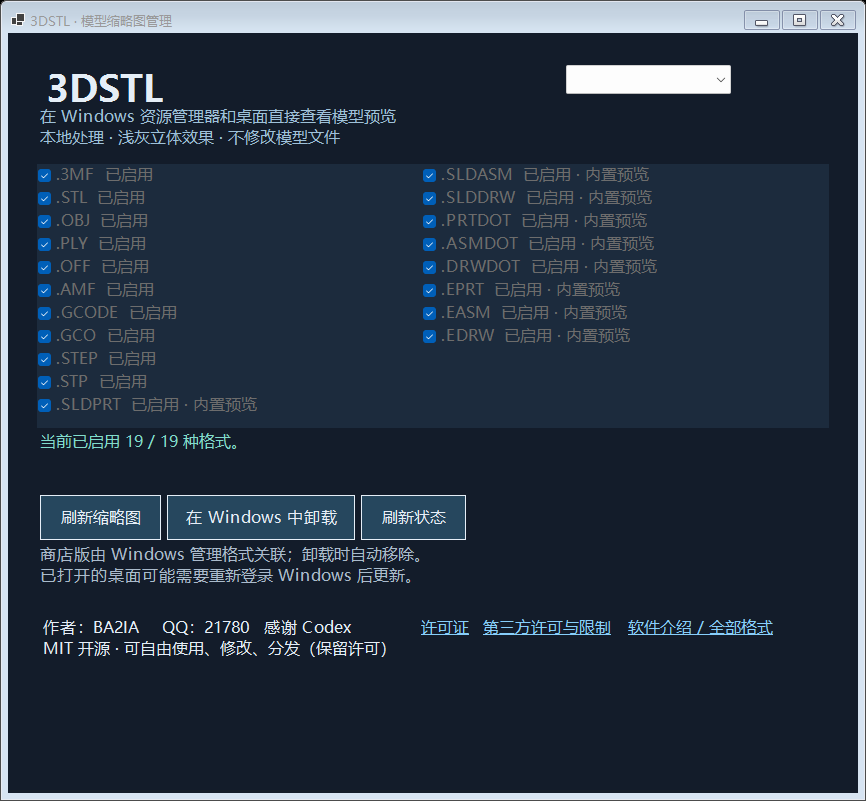
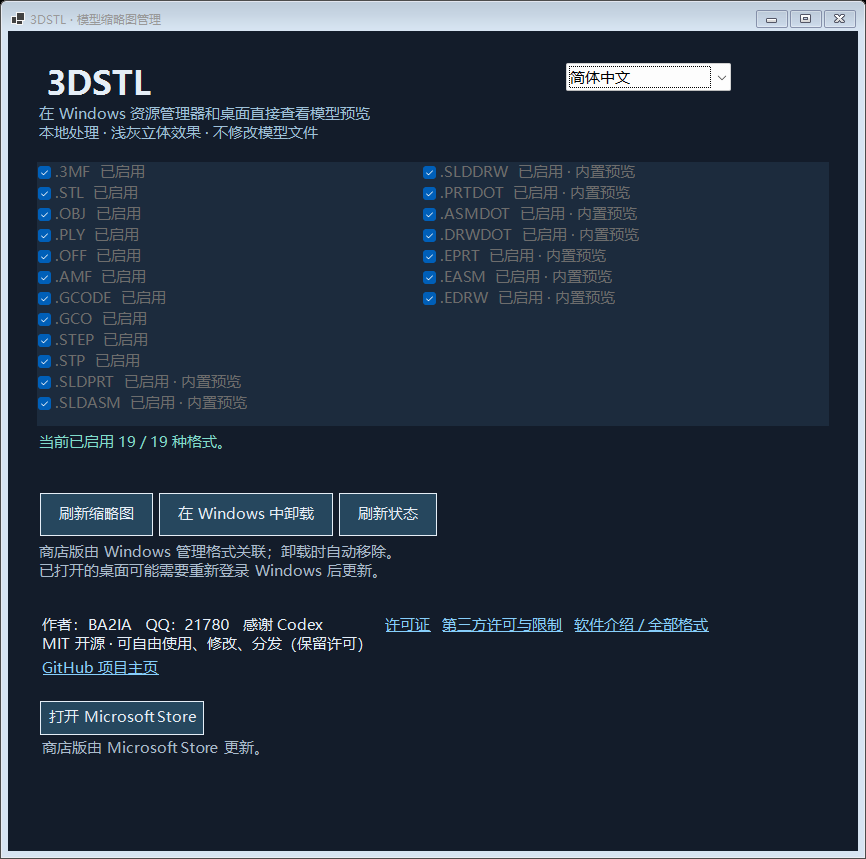
Fix Store English localization failure and resubmit 0.2.1.0

Changed region(s): [[0.0, 0.0, 0.9977, 0.9051], [0.4677, 0.1873, 0.7483, 0.437]]

diff --git a/store/StoreManager.cs b/store/StoreManager.cs
@@ -14,26 +14,26 @@ class AssociationManager {
 partial class ManagerForm:Form {
  bool english,repairBusy,snapshotMode; readonly ProgressBar progress=new ProgressBar{Dock=DockStyle.Bottom,Height=7,Visible=false};readonly System.Windows.Forms.Timer refreshTimer=new System.Windows.Forms.Timer{Interval=1000};readonly string refreshLog=Path.Combine(Environment.GetFolderPath(Environment.SpecialFolder.LocalApplicationData),"3DSTL","thumbnail-refresh.log"); readonly string languageFile=Path.Combine(Environment.GetFolderPath(Environment.SpecialFolder.LocalApplicationData),"3DSTL","language.txt");
  readonly AssociationManager manager=new AssociationManager();readonly CheckedListBox formats=new CheckedListBox();readonly Label status=new Label();readonly Button repair=new Button(),uninstall=new Button();
- public ManagerForm(bool online=true){english=File.Exists(languageFile)&&File.ReadAllText(languageFile)=="en";Text="3DSTL · 模型缩略图管理";AutoScaleMode=AutoScaleMode.Dpi;ClientSize=new Size(850,820);MinimumSize=new Size(810,790);StartPosition=FormStartPosition.CenterScreen;BackColor=Color.FromArgb(19,28,42);ForeColor=Color.FromArgb(229,238,247);Font=new Font("Microsoft YaHei UI",11);var layout=new TableLayoutPanel{Dock=DockStyle.Fill,Padding=new Padding(26),ColumnCount=1,RowCount=7};foreach(int h in new[]{47,55,270,58,55,70})layout.RowStyles.Add(new RowStyle(SizeType.Absolute,h));layout.RowStyles.Add(new RowStyle(SizeType.Percent,100));Controls.Add(layout);
+ public ManagerForm(bool online=true,string settingsDirectory=null){if(settingsDirectory!=null)languageFile=Path.Combine(settingsDirectory,"language.txt");english=File.Exists(languageFile)&&File.ReadAllText(languageFile)=="en";Text="3DSTL · 模型缩略图管理";AutoScaleMode=AutoScaleMode.Dpi;ClientSize=new Size(850,820);MinimumSize=new Size(810,790);StartPosition=FormStartPosition.CenterScreen;BackColor=Color.FromArgb(19,28,42);ForeColor=Color.FromArgb(229,238,247);Font=new Font("Microsoft YaHei UI",11);var layout=new TableLayoutPanel{Dock=DockStyle.Fill,Padding=new Padding(26),ColumnCount=1,RowCount=7};foreach(int h in new[]{47,55,270,58,55,70})layout.RowStyles.Add(new RowStyle(SizeType.Absolute,h));layout.RowStyles.Add(new RowStyle(SizeType.Percent,100));Controls.Add(layout);
  var header=new FlowLayoutPanel{Dock=DockStyle.Fill};header.Controls.Add(new Label{Text="3DSTL",Font=new Font(Font.FontFamily,25,FontStyle.Bold),Width=520,Height=45});var language=new ComboBox{Name="LanguageSelector",Width=165,DropDownStyle=ComboBoxStyle.DropDownList,ForeColor=Color.Black};language.Items.AddRange(new object[]{"简体中文","English"});language.SelectedIndex=english?1:0;language.SelectedIndexChanged+=delegate{english=language.SelectedIndex==1;if(!snapshotMode){Directory.CreateDirectory(Path.GetDirectoryName(languageFile));File.WriteAllText(languageFile,english?"en":"zh");}UpdateStatus();ApplyLanguage(this);RefreshUpdateLabels();Text=english?"3DSTL · Model Thumbnails":"3DSTL · 模型缩略图管理";};header.Controls.Add(language);layout.Controls.Add(header,0,0);layout.Controls.Add(new Label{Text="在 Windows 资源管理器和桌面直接查看模型预览\r\n本地处理 · 浅灰立体效果 · 不修改模型文件",Dock=DockStyle.Fill,ForeColor=Color.FromArgb(158,193,217)},0,1);
  formats.Dock=DockStyle.Fill;formats.BackColor=Color.FromArgb(28,43,61);formats.ForeColor=ForeColor;formats.BorderStyle=BorderStyle.None;formats.CheckOnClick=false;formats.Enabled=false;formats.ColumnWidth=385;formats.MultiColumn=true;formats.IntegralHeight=false;layout.Controls.Add(formats,0,2);
  status.Dock=DockStyle.Fill;status.AutoEllipsis=true;status.ForeColor=Color.FromArgb(129,219,203);var statusPanel=new Panel{Dock=DockStyle.Fill};statusPanel.Controls.Add(status);statusPanel.Controls.Add(progress);layout.Controls.Add(statusPanel,0,3);refreshTimer.Tick+=delegate{ReadRefreshProgress();};FormClosed+=delegate{refreshTimer.Dispose();};
  var buttons=new FlowLayoutPanel{Dock=DockStyle.Fill};repair.Text="刷新缩略图";uninstall.Text="在 Windows 中卸载";var refresh=new Button{Text="刷新状态"};foreach(var b in new[]{repair,uninstall,refresh}){b.AutoSize=true;b.Padding=new Padding(10,5,10,5);b.FlatStyle=FlatStyle.Flat;b.BackColor=Color.FromArgb(38,71,94);b.ForeColor=ForeColor;buttons.Controls.Add(b);}layout.Controls.Add(buttons,0,4);
  layout.Controls.Add(new Label{Text="商店版由 Windows 管理格式关联；卸载时自动移除。\r\n已打开的桌面可能需要重新登录 Windows 后更新。",Dock=DockStyle.Fill,ForeColor=Color.FromArgb(170,187,204)},0,5);
- var bottom=new FlowLayoutPanel{Dock=DockStyle.Fill};bottom.Controls.Add(new Label{Text="作者：BA2IA   QQ：21780   感谢 Codex\r\nMIT 开源 · 可自由使用、修改、分发（保留许可）",AutoSize=true});var license=new LinkLabel{Text="许可证",AutoSize=true,LinkColor=Color.LightSkyBlue};license.LinkClicked+=delegate{Open("LICENSE");};var third=new LinkLabel{Text="第三方许可与限制",AutoSize=true,LinkColor=Color.LightSkyBlue};third.LinkClicked+=delegate{Open("THIRD-PARTY-NOTICES.txt");};bottom.Controls.Add(license);bottom.Controls.Add(third);var about=new LinkLabel{Text="软件介绍 / 全部格式",AutoSize=true,LinkColor=Color.LightSkyBlue};about.LinkClicked+=delegate{ShowMessage("3DSTL 是免费的本地模型缩略图工具，让资源管理器和桌面直接显示模型预览。\\n\\n模型渲染：STL、3MF、OBJ、PLY、OFF、AMF、STEP、STP。\\n图片或路径预览：GCODE、GCO。\\n仅提取内置预览：SLDPRT、SLDASM、SLDDRW、PRTDOT、ASMDOT、DRWDOT、EPRT、EASM、EDRW。\\n\\n作者：BA2IA\\nQQ：21780\\n感谢 Codex\\n原创源码采用 MIT 许可，可自由使用、修改和分发，须保留版权及许可证。第三方组件遵循各自许可证。".Replace("\\n",Environment.NewLine),"关于 3DSTL",MessageBoxButtons.OK,MessageBoxIcon.Information);};bottom.Controls.Add(about);var logs=new LinkLabel{Text="刷新日志",AutoSize=true,LinkColor=Color.LightSkyBlue};logs.LinkClicked+=delegate{if(File.Exists(refreshLog))Process.Start(new ProcessStartInfo("notepad.exe"){UseShellExecute=true,ArgumentList={refreshLog}});else ShowMessage(english?"No refresh log yet.":"还没有刷新记录。","3DSTL",MessageBoxButtons.OK,MessageBoxIcon.Information);};bottom.Controls.Add(logs);layout.Controls.Add(bottom,0,6);InitUpdates(bottom,online);
- repair.Click+=async delegate{await RepairSelected();};uninstall.Click+=delegate{if(ShowMessage("卸载全部模型缩略图功能并恢复原关联？\r\n模型文件不会删除。","卸载",MessageBoxButtons.YesNo,MessageBoxIcon.Question)==DialogResult.Yes)Run(manager.Uninstall);};refresh.Click+=delegate{if(refreshTimer.Enabled)ReadRefreshProgress();else UpdateStatus();};UpdateStatus();ApplyLanguage(this);RefreshUpdateLabels();Text=english?"3DSTL · Model Thumbnails":"3DSTL · 模型缩略图管理";if(manager.RegistryRoot=="Software\\Classes"&&RefreshRunning()){refreshTimer.Start();ReadRefreshProgress();}}
+ var bottom=new FlowLayoutPanel{Dock=DockStyle.Fill};bottom.Controls.Add(new Label{Text="作者：BA2IA   QQ：21780   感谢 Codex\r\nMIT 开源 · 可自由使用、修改、分发（保留许可）",AutoSize=true});var license=new LinkLabel{Text="许可证",AutoSize=true,LinkColor=Color.LightSkyBlue};license.LinkClicked+=delegate{Open("LICENSE");};var third=new LinkLabel{Text="第三方许可与限制",AutoSize=true,LinkColor=Color.LightSkyBlue};third.LinkClicked+=delegate{Open("THIRD-PARTY-NOTICES.txt");};bottom.Controls.Add(license);bottom.Controls.Add(third);var about=new LinkLabel{Text="软件介绍 / 全部格式",AutoSize=true,LinkColor=Color.LightSkyBlue};about.LinkClicked+=delegate{ShowMessage("3DSTL 是免费的本地模型缩略图工具，让资源管理器和桌面直接显示模型预览。\\n\\n模型渲染：STL、3MF、OBJ、PLY、OFF、AMF、STEP、STP。\\n图片或路径预览：GCODE、GCO。\\n仅提取内置预览：SLDPRT、SLDASM、SLDDRW、PRTDOT、ASMDOT、DRWDOT、EPRT、EASM、EDRW。\\n\\n作者：BA2IA\\nQQ：21780\\n感谢 Codex\\n原创源码采用 MIT 许可，可自由使用、修改和分发，须保留版权及许可证。第三方组件遵循各自许可证。".Replace("\\n",Environment.NewLine),"关于 3DSTL",MessageBoxButtons.OK,MessageBoxIcon.Information);};bottom.Controls.Add(about);var logs=new LinkLabel{Text="刷新日志",AutoSize=true,LinkColor=Color.LightSkyBlue};logs.LinkClicked+=delegate{if(File.Exists(refreshLog))Process.Start(new ProcessStartInfo("notepad.exe"){UseShellExecute=true,ArgumentList={refreshLog}});else ShowMessage(english?"No refresh log yet.":"还没有刷新记录。","3DSTL",MessageBoxButtons.OK,MessageBoxIcon.Information);};layout.Controls.Add(bottom,0,6);InitUpdates(bottom,online);
+ repair.Click+=async delegate{await RepairSelected();};uninstall.Click+=delegate{if(ShowMessage("在 Windows 设置中卸载 3DSTL？\r\n模型文件不会删除。","卸载",MessageBoxButtons.YesNo,MessageBoxIcon.Question)==DialogResult.Yes)Run(manager.Uninstall);};refresh.Click+=delegate{if(refreshTimer.Enabled)ReadRefreshProgress();else UpdateStatus();};UpdateStatus();ApplyLanguage(this);RefreshUpdateLabels();Text=english?"3DSTL · Model Thumbnails":"3DSTL · 模型缩略图管理";if(manager.RegistryRoot=="Software\\Classes"&&RefreshRunning()){refreshTimer.Start();ReadRefreshProgress();}}
  DialogResult ShowMessage(string text,string caption,MessageBoxButtons buttons,MessageBoxIcon icon){return MessageBox.Show(this,Translate(text),Translate(caption),buttons,icon);}
  void ApplyLanguage(Control control){foreach(Control child in control.Controls){if(child is ComboBox||child is CheckedListBox||child==status)continue;if(child.Tag==null)child.Tag=child.Text;child.Text=Translate(Convert.ToString(child.Tag));ApplyLanguage(child);}}
  string Translate(string text){if(!english)return text;var map=new Dictionary<string,string>{
  {"在 Windows 资源管理器和桌面直接查看模型预览","Model thumbnails in Windows File Explorer and on your desktop"},
  {"本地处理 · 浅灰立体效果 · 不修改模型文件","Local processing · Light gray rendering · Original files stay intact"},
- {"刷新缩略图","Refresh thumbnails"},{"在 Windows 中卸载","Uninstall via Windows"},{"商店版由 Windows 管理格式关联；卸载时自动移除。","Windows manages Store file associations and removes them on uninstall."},{"请在 Windows 设置中卸载 3DSTL，Windows 会自动移除缩略图关联。","Uninstall 3DSTL in Windows Settings. Windows removes the thumbnail associations."},{"已通知 Windows 刷新。返回目录按 F5 查看。","Windows has been notified. Press F5 in File Explorer."},{"一键修复 / 安装","Repair / Install"},{"卸载缩略图功能","Uninstall thumbnails"},{"刷新状态","Refresh status"},
- {"商店版由 Windows 管理格式关联；卸载时自动移除。","Repair selected formats. Uninstall restores previous associations."},
+ {"刷新缩略图","Refresh thumbnails"},{"在 Windows 中卸载","Uninstall via Windows"},{"请在 Windows 设置中卸载 3DSTL，Windows 会自动移除缩略图关联。","Uninstall 3DSTL in Windows Settings. Windows removes the thumbnail associations."},{"已通知 Windows 刷新。返回目录按 F5 查看。","Windows has been notified. Press F5 in File Explorer."},{"一键修复 / 安装","Repair / Install"},{"卸载缩略图功能","Uninstall thumbnails"},{"刷新状态","Refresh status"},
+ {"商店版由 Windows 管理格式关联；卸载时自动移除。","Windows manages Store file associations and removes them on uninstall."},
  {"已打开的桌面可能需要重新登录 Windows 后更新。","First previews may take time. Sign out/in if the desktop stays cached."},
  {"作者：BA2IA   QQ：21780   感谢 Codex","Author: BA2IA   QQ: 21780   Thanks to Codex"},
  {"MIT 开源 · 可自由使用、修改、分发（保留许可）","MIT · Free to use, modify and distribute (keep the license)"},
  {"GitHub 项目主页","GitHub project"},{"刷新日志","Refresh log"},{"第三方许可与限制","Third-party licenses & limits"},{"软件介绍 / 全部格式","About / All formats"},{"许可证","License"},
- {"卸载全部模型缩略图功能并恢复原关联？","Uninstall all model thumbnail handlers and restore previous associations?"},
+ {"在 Windows 设置中卸载 3DSTL？","Open Windows Settings to uninstall 3DSTL?"},
  {"模型文件不会删除。","Your model files will not be deleted."},{"操作未完成","Operation failed"},{"卸载","Uninstall"},
  {"已启用","Enabled"},{"未启用","Disabled"},{"内置预览","Embedded preview only"},
  {"3DSTL 是免费的本地模型缩略图工具，让资源管理器和桌面直接显示模型预览。","3DSTL is a free local model thumbnail tool for File Explorer and the desktop."},
@@ -58,7 +58,7 @@ partial class ManagerForm:Form {
   var selected=formats.CheckedIndices.Cast<int>().Select(i=>AssociationManager.Formats[i]).ToArray();
   if(selected.Length==0){status.Text=Translate("请先勾选需要修复的格式。");return;}
   repairBusy=true;Busy(true);progress.Visible=true;progress.Style=ProgressBarStyle.Marquee;
-  status.Text=english?"Repairing selected formats…":"正在修复勾选的格式，请稍候…";
+  status.Text=english?"Notifying Windows to refresh…":"正在通知 Windows 刷新，请稍候…";
   try{
    await Task.Run(()=>manager.Repair(selected));UpdateStatus();
    status.Text=english?"Windows has been notified to refresh thumbnails.":"已通知 Windows 刷新缩略图。";

diff --git a/src/Manager.cs b/src/Manager.cs
@@ -1,4 +1,4 @@
-using System;using System.IO;using System.Linq;using System.Drawing;using System.Windows.Forms;using Microsoft.Win32;using System.Text.Json;using System.Collections.Generic;using System.Runtime.InteropServices;using System.Diagnostics;using System.Threading.Tasks;
+using System;using System.IO;using System.Linq;using System.Drawing;using System.Windows.Forms;using Microsoft.Win32;using System.Text.Json;using System.Collections.Generic;using System.Runtime.InteropServices;using System.Diagnostics;using System.Threading.Tasks;
 class Saved {public bool Exists{get;set;}public string Value{get;set;}="";}
 class AssociationManager {
  public static readonly string[] Formats={"3mf","stl","obj","ply","off","amf","gcode","gco","step","stp","sldprt","sldasm","slddrw","prtdot","asmdot","drwdot","eprt","easm","edrw"};
@@ -27,7 +27,7 @@ class AssociationManager {
 partial class ManagerForm:Form {
  bool english,repairBusy,snapshotMode; readonly ProgressBar progress=new ProgressBar{Dock=DockStyle.Bottom,Height=7,Visible=false};readonly System.Windows.Forms.Timer refreshTimer=new System.Windows.Forms.Timer{Interval=1000};readonly string refreshLog=Path.Combine(Environment.GetFolderPath(Environment.SpecialFolder.LocalApplicationData),"3DSTL","thumbnail-refresh.log"); readonly string languageFile=Path.Combine(Environment.GetFolderPath(Environment.SpecialFolder.LocalApplicationData),"3DSTL","language.txt");
  readonly AssociationManager manager=new AssociationManager();readonly CheckedListBox formats=new CheckedListBox();readonly Label status=new Label();readonly Button repair=new Button(),uninstall=new Button();
- public ManagerForm(bool online=true){english=File.Exists(languageFile)&&File.ReadAllText(languageFile)=="en";Text="3DSTL · 模型缩略图管理";AutoScaleMode=AutoScaleMode.Dpi;ClientSize=new Size(850,820);MinimumSize=new Size(810,790);StartPosition=FormStartPosition.CenterScreen;BackColor=Color.FromArgb(19,28,42);ForeColor=Color.FromArgb(229,238,247);Font=new Font("Microsoft YaHei UI",11);var layout=new TableLayoutPanel{Dock=DockStyle.Fill,Padding=new Padding(26),ColumnCount=1,RowCount=7};foreach(int h in new[]{47,55,270,58,55,70})layout.RowStyles.Add(new RowStyle(SizeType.Absolute,h));layout.RowStyles.Add(new RowStyle(SizeType.Percent,100));Controls.Add(layout);
+ public ManagerForm(bool online=true,string settingsDirectory=null){if(settingsDirectory!=null)languageFile=Path.Combine(settingsDirectory,"language.txt");english=File.Exists(languageFile)&&File.ReadAllText(languageFile)=="en";Text="3DSTL · 模型缩略图管理";AutoScaleMode=AutoScaleMode.Dpi;ClientSize=new Size(850,820);MinimumSize=new Size(810,790);StartPosition=FormStartPosition.CenterScreen;BackColor=Color.FromArgb(19,28,42);ForeColor=Color.FromArgb(229,238,247);Font=new Font("Microsoft YaHei UI",11);var layout=new TableLayoutPanel{Dock=DockStyle.Fill,Padding=new Padding(26),ColumnCount=1,RowCount=7};foreach(int h in new[]{47,55,270,58,55,70})layout.RowStyles.Add(new RowStyle(SizeType.Absolute,h));layout.RowStyles.Add(new RowStyle(SizeType.Percent,100));Controls.Add(layout);
  var header=new FlowLayoutPanel{Dock=DockStyle.Fill};header.Controls.Add(new Label{Text="3DSTL",Font=new Font(Font.FontFamily,25,FontStyle.Bold),Width=520,Height=45});var language=new ComboBox{Name="LanguageSelector",Width=165,DropDownStyle=ComboBoxStyle.DropDownList,ForeColor=Color.Black};language.Items.AddRange(new object[]{"简体中文","English"});language.SelectedIndex=english?1:0;language.SelectedIndexChanged+=delegate{english=language.SelectedIndex==1;if(!snapshotMode){Directory.CreateDirectory(Path.GetDirectoryName(languageFile));File.WriteAllText(languageFile,english?"en":"zh");}UpdateStatus();ApplyLanguage(this);RefreshUpdateLabels();Text=english?"3DSTL · Model Thumbnails":"3DSTL · 模型缩略图管理";};header.Controls.Add(language);layout.Controls.Add(header,0,0);layout.Controls.Add(new Label{Text="在 Windows 资源管理器和桌面直接查看模型预览\r\n本地处理 · 浅灰立体效果 · 不修改模型文件",Dock=DockStyle.Fill,ForeColor=Color.FromArgb(158,193,217)},0,1);
  formats.Dock=DockStyle.Fill;formats.BackColor=Color.FromArgb(28,43,61);formats.ForeColor=ForeColor;formats.BorderStyle=BorderStyle.None;formats.CheckOnClick=true;formats.ColumnWidth=385;formats.MultiColumn=true;formats.IntegralHeight=false;layout.Controls.Add(formats,0,2);
  status.Dock=DockStyle.Fill;status.AutoEllipsis=true;status.ForeColor=Color.FromArgb(129,219,203);var statusPanel=new Panel{Dock=DockStyle.Fill};statusPanel.Controls.Add(status);statusPanel.Controls.Add(progress);layout.Controls.Add(statusPanel,0,3);refreshTimer.Tick+=delegate{ReadRefreshProgress();};FormClosed+=delegate{refreshTimer.Dispose();};

diff --git a/store/PrepareManager.py b/store/PrepareManager.py
@@ -1,4 +1,4 @@
-from pathlib import Path
+from pathlib import Path
 root=Path(__file__).resolve().parents[1]
 s=(root/'src/Manager.cs').read_text(encoding='utf-8-sig')
 a=s.index('class AssociationManager {');b=s.index('partial class ManagerForm:Form {')
@@ -23,9 +23,22 @@ s=s.replace('repair.Text="一键修复 / 安装"','repair.Text="刷新缩略图"
 s=s.replace('修复勾选的格式；卸载恢复全部格式的旧设置。首次生成较慢。','商店版由 Windows 管理格式关联；卸载时自动移除。')
 s=s.replace('"已修复 "+selected.Length+" 种格式。返回目录按 F5 查看。"','"已通知 Windows 刷新。返回目录按 F5 查看。"')
 s=s.replace('"已修复 "+selected.Length+" 种格式。桌面预览在后台更新，大 STL 最后处理。"','"已通知 Windows 刷新。返回目录按 F5 查看。"')
-s=s.replace('{"一键修复 / 安装","Repair / Install"}', '{"刷新缩略图","Refresh thumbnails"},{"在 Windows 中卸载","Uninstall via Windows"},{"商店版由 Windows 管理格式关联；卸载时自动移除。","Windows manages Store file associations and removes them on uninstall."},{"请在 Windows 设置中卸载 3DSTL，Windows 会自动移除缩略图关联。","Uninstall 3DSTL in Windows Settings. Windows removes the thumbnail associations."},{"已通知 Windows 刷新。返回目录按 F5 查看。","Windows has been notified. Press F5 in File Explorer."},{"一键修复 / 安装","Repair / Install"}')
+s=s.replace('{"一键修复 / 安装","Repair / Install"}', '{"刷新缩略图","Refresh thumbnails"},{"在 Windows 中卸载","Uninstall via Windows"},{"请在 Windows 设置中卸载 3DSTL，Windows 会自动移除缩略图关联。","Uninstall 3DSTL in Windows Settings. Windows removes the thumbnail associations."},{"已通知 Windows 刷新。返回目录按 F5 查看。","Windows has been notified. Press F5 in File Explorer."},{"一键修复 / 安装","Repair / Install"}')
+s=s.replace('Repair selected formats. Uninstall restores previous associations.', 'Windows manages Store file associations and removes them on uninstall.')
+s=s.replace('Uninstall all model thumbnail handlers and restore previous associations?', 'Open Windows Settings to uninstall 3DSTL?')
+s=s.replace('卸载全部模型缩略图功能并恢复原关联？', '在 Windows 设置中卸载 3DSTL？')
+s=s.replace('Uninstall all model thumbnail handlers and restore previous associations?', 'Open Windows Settings to uninstall 3DSTL?')
+s=s.replace('正在修复勾选的格式，请稍候…','正在通知 Windows 刷新，请稍候…').replace('Repairing selected formats…','Notifying Windows to refresh…')
+# The Store build has no desktop refresh queue/log. Do not expose a dead log link.
+s=s.replace('bottom.Controls.Add(logs);', '')
 s=s.replace('if(args.Contains("--selftest")){SelfTest();return;}','if(args.Contains("--selftest"))return;')
 s=s.replace('if(args.Contains("--selftest-ui")){SelfTestUi();return;}','if(args.Contains("--selftest-ui"))return;')
 a=s.find(' static void SelfTestUi(){')
 if a>=0:s=s[:a]+'}'+chr(10)
+# Fail the build if generated localization keys collide (the 0.2.0.0 certification failure).
+import re,collections
+start=s.index('var map=new Dictionary<string,string>{');end=s.index('};',start)
+keys=re.findall(r'\{"([^"\n]+)",',s[start:end])
+duplicates=[key for key,count in collections.Counter(keys).items() if count>1]
+if duplicates:raise RuntimeError('Duplicate generated translation keys: '+repr(duplicates))
 (root/'store/StoreManager.cs').write_text(s,encoding='utf-8-sig')

diff --git a/tests/StoreLanguageTest.cs b/tests/StoreLanguageTest.cs
@@ -1,0 +1,12 @@
+using System;using System.IO;using System.Linq;using System.Drawing;using System.Text.RegularExpressions;using System.Windows.Forms;using System.Collections.Generic;
+class StoreLanguageTest{
+ static IEnumerable<Control> All(Control c){foreach(Control child in c.Controls){yield return child;foreach(var nested in All(child))yield return nested;}}
+ static void Assert(bool ok,string reason){if(!ok)throw new Exception(reason);}
+ static void English(ManagerForm form){foreach(var c in All(form)){if(c is ComboBox)continue;Assert(!Regex.IsMatch(c.Text??"",@"[\u4e00-\u9fff]"),"Untranslated control: "+c.Text);if(c is CheckedListBox list)foreach(var item in list.Items)Assert(!Regex.IsMatch(item.ToString(),@"[\u4e00-\u9fff]"),"Untranslated format: "+item);}}
+ [STAThread]static int Main(){Application.EnableVisualStyles();string root=Path.Combine(Path.GetTempPath(),"3DSTL-store-language-"+Guid.NewGuid());Directory.CreateDirectory(root);try{
+ using(var form=new ManagerForm(false,root)){form.Show();var combo=All(form).OfType<ComboBox>().Single();for(int i=0;i<8;i++){combo.SelectedIndex=1;Application.DoEvents();English(form);Assert(File.ReadAllText(Path.Combine(root,"language.txt"))=="en","English preference not saved");combo.SelectedIndex=0;Application.DoEvents();Assert(All(form).Any(c=>c.Text=="刷新缩略图"),"Chinese did not return");}combo.SelectedIndex=1;Application.DoEvents();English(form);Directory.CreateDirectory("artifacts/certification-20261020");using(var bmp=new Bitmap(form.Width,form.Height)){form.DrawToBitmap(bmp,new Rectangle(Point.Empty,bmp.Size));bmp.Save("artifacts/certification-20261020/store-en.png");}}
+ using(var reopened=new ManagerForm(false,root)){reopened.Show();Application.DoEvents();English(reopened);Assert(reopened.Text=="3DSTL · Model Thumbnails","Restart lost English title");var combo=All(reopened).OfType<ComboBox>().Single();Assert(combo.SelectedIndex==1,"Restart lost English selection");combo.SelectedIndex=0;Application.DoEvents();using var bmp=new Bitmap(reopened.Width,reopened.Height);reopened.DrawToBitmap(bmp,new Rectangle(Point.Empty,bmp.Size));bmp.Save("artifacts/certification-20261020/store-zh.png");}
+ using(var reopened=new ManagerForm(false,root)){Assert(All(reopened).OfType<ComboBox>().Single().SelectedIndex==0,"Restart lost Chinese selection");}
+ Console.WriteLine("PASS Store: 8 real language-switch cycles, all English controls/formats translated, Chinese restoration, preferences, English/Chinese restart, screenshots; no personal settings changed");return 0;
+ }finally{Directory.Delete(root,true);}}
+}

diff --git a/store/PrepareManifest.py b/store/PrepareManifest.py
@@ -7,6 +7,7 @@ for size,name in [(44,'Square44.png'),(150,'Square150.png'),(50,'StoreLogo.png')
  d.polygon([(75*s,20*s),(128*s,48*s),(75*s,78*s),(22*s,48*s)],fill='#e4dfd0')
  d.polygon([(22*s,48*s),(75*s,78*s),(75*s,132*s),(22*s,101*s)],fill='#aaa99f')
  d.polygon([(75*s,78*s),(128*s,48*s),(128*s,101*s),(75*s,132*s)],fill='#d1cec1');image.save(assets/name)
+version=(root/'store/VERSION').read_text().strip()
 identity=json.loads((root/'store/identity.json').read_text())
 formats=['3mf','stl','obj','ply','off','amf','gcode','gco','step','stp','sldprt','sldasm','slddrw','prtdot','asmdot','drwdot','eprt','easm','edrw']
 extensions=[];classes=[]
@@ -16,7 +17,7 @@ for n,ext in enumerate(formats):
  classes.append(f'<com:Class Id="{clsid}" Path="shell\\3DSTL.Thumbnail.dll" ThreadingModel="Both"/>')
 manifest=f'''<?xml version="1.0" encoding="utf-8"?>
 <Package xmlns="http://schemas.microsoft.com/appx/manifest/foundation/windows10" xmlns:uap="http://schemas.microsoft.com/appx/manifest/uap/windows10" xmlns:desktop2="http://schemas.microsoft.com/appx/manifest/desktop/windows10/2" xmlns:com="http://schemas.microsoft.com/appx/manifest/com/windows10" xmlns:rescap="http://schemas.microsoft.com/appx/manifest/foundation/windows10/restrictedcapabilities" IgnorableNamespaces="uap desktop2 com rescap">
-<Identity Name="{identity['Name']}" Publisher="{identity['Publisher']}" ProcessorArchitecture="x64" Version="0.2.0.0"/>
+<Identity Name="{identity['Name']}" Publisher="{identity['Publisher']}" ProcessorArchitecture="x64" Version="{version}"/>
 <Properties><DisplayName>3DSTL</DisplayName><PublisherDisplayName>{identity['PublisherDisplayName']}</PublisherDisplayName><Logo>Assets\\StoreLogo.png</Logo><Description>Local model thumbnails for Windows File Explorer</Description></Properties>
 <Resources><Resource Language="zh-CN"/><Resource Language="en-US"/></Resources>
 <Dependencies><TargetDeviceFamily Name="Windows.Desktop" MinVersion="10.0.19041.0" MaxVersionTested="10.0.26100.0"/></Dependencies>

diff --git a/src/ManagerUpdates.cs b/src/ManagerUpdates.cs
@@ -26,6 +26,7 @@ partial class ManagerForm {
   updateButton.BackColor = Color.FromArgb(38,71,94);updateButton.ForeColor=ForeColor;
   automaticUpdates.Checked = updateSettings.Automatic && !UpdateClient.StoreBuild;
   automaticUpdates.Enabled = !UpdateClient.StoreBuild;
+  automaticUpdates.Visible = !UpdateClient.StoreBuild;
   bottom.Controls.Add(updateButton);bottom.Controls.Add(automaticUpdates);bottom.SetFlowBreak(automaticUpdates,true);
   updateStatus.ForeColor=Color.FromArgb(170,187,204);bottom.Controls.Add(updateStatus);
   updateButton.Click += async (_,_) => {

diff --git a/docs/STORE-SUBMISSION.md b/docs/STORE-SUBMISSION.md
@@ -4,19 +4,19 @@
 名称：3DSTL
 发布者显示名称：BA2IA（需与开发者后台允许的发布者身份对应）
 简述：在 Windows 资源管理器和桌面直接查看 STL、3MF、STEP 等模型缩略图。
-介绍：3DSTL 是免费的本地模型缩略图管理工具，提供浅灰立体预览、中文/English 界面、一键安装修复及恢复原关联。作者 BA2IA，QQ：21780，感谢 Codex。原创源码采用 MIT 许可，第三方组件遵循各自许可证。
+介绍：3DSTL 是免费的本地模型缩略图管理工具，提供浅灰立体预览、中文/English 界面、Windows 管理的缩略图关联及刷新通知。作者 BA2IA，QQ：21780，感谢 Codex。原创源码采用 MIT 许可，第三方组件遵循各自许可证。
 格式：STL、3MF、OBJ、PLY、OFF、AMF、GCODE、GCO、STEP、STP；SLDPRT、SLDASM、SLDDRW、PRTDOT、ASMDOT、DRWDOT、EPRT、EASM、EDRW 仅尝试读取内置预览。
 限制：特殊GCODE、过大模型、无内置图片或不兼容的专有CAD文件可能无法预览。专有格式兼容性未完整验证。
 价格：免费。
 建议分类：工具 / Utilities。
 支持网址：https://github.com/Wastrix-ba2ia/3DSTL/issues
 项目网址：https://github.com/Wastrix-ba2ia/3DSTL
-截图：docs/screenshot-zh.png、docs/screenshot-en.png。
+截图：docs/store-screenshot-zh.png、docs/store-screenshot-en.png。
 
 ## English
 Name: 3DSTL
 Short description: Local model thumbnails for Windows File Explorer and your desktop.
-Description: Free model thumbnail management with light-gray rendering, Chinese/English UI, Repair/Install, and previous-association recovery. Author BA2IA, QQ: 21780. Thanks to Codex. Original source is MIT; dependencies retain their licenses.
+Description: Free model thumbnail management with light-gray rendering, Chinese/English UI, Windows-managed thumbnail associations and refresh notifications. Author BA2IA, QQ: 21780. Thanks to Codex. Original source is MIT; dependencies retain their licenses.
 Formats: STL, 3MF, OBJ, PLY, OFF, AMF, GCODE, GCO, STEP, STP. SLDPRT, SLDASM, SLDDRW, PRTDOT, ASMDOT, DRWDOT, EPRT, EASM, EDRW: embedded-preview extraction only; compatibility is not guaranteed.
 Price: Free.
 
@@ -30,3 +30,13 @@ Price: Free.
 https://learn.microsoft.com/en-us/windows/apps/publish/get-started
 https://learn.microsoft.com/en-us/windows/apps/package-and-deploy/publish-first-app
 https://learn.microsoft.com/en-us/uwp/schemas/appxpackage/uapmanifestschema/element-desktop2-thumbnailhandler
+
+## 2026-10-20 认证修正（0.2.1.0）
+
+微软报告 25d25cdb-3a03-4d6e-9b41-b29453b0e08e 明确指出：切换 English 触发重复键异常，界面继续显示中文。实际重复键为“商店版由 Windows 管理格式关联；卸载时自动移除。”，由 PrepareManager.py 将原键替换后又插入相同键造成。已移除重复插入并在生成阶段检测重复翻译键，修正商店版卸载确认及刷新提示，隐藏不适用的传统版刷新日志和自动下载选项。
+
+验证：tests/StoreLanguageTest.csproj 连续8轮真实语言菜单切换、控件/格式英文检查、语言设置保存及中英文重启通过。Windows Sandbox 中安装临时签名的同一0.2.1.0包，中英文启动截图通过；10种主要格式的Windows缩略图缓存请求（48/96/256）共30项成功，随后卸载通过。测试证书仅存在于已隔离沙盒，未修改宿主机证书信任。主机映射共享目录不支持所需操作锁，因此测试样本先复制到沙盒本地磁盘。专有格式仍仅尝试提取内置预览，未宣称完整兼容。
+
+本次提交文件：artifacts/3DSTL-0.2.1.0-x64.msix。当前GitHub桌面版0.1.2与商店版本号独立。中英文商店介绍去掉传统版“修复关联”承诺；审核备注需明确英文异常的修复、复现验证步骤、runFullTrust 的独立本地渲染用途。
+
+重新提交结果：2026-10-20 已在合作伙伴中心重新提交，页面明确显示“正在认证”。提交仍为 Submission 1，程序包已换为0.2.1.0并Validated。中英文介绍、截图、受限功能说明及其他测试信息均已保存。后台提示通常数小时，某些情况最多3个工作日；不能等同于已获批准。凭证：artifacts/certification-20261020/resubmitted.png。

diff --git a/store/README.md b/store/README.md
@@ -1,8 +1,8 @@
-# Microsoft Store 提交 / Submission
+# Microsoft Store 提交 / Submission
 
 商店 ID：9NQ6SSHMXRQM。包身份见 identity.json。
 
-上传文件：artifacts/3DSTL-0.2.0.0-x64.msix。
+上传文件：artifacts/3DSTL-0.2.1.0-x64.msix。
 这是未签名的商店提交包，不是供直接双击安装的侧载包；由商店在审核/分发流程中处理签名。
 
 ## 后台填写
@@ -18,7 +18,7 @@
 - MakeAppx 语义/清单打包校验通过，没有禁用 validation。
 - 原生 COM → 独立自包含渲染进程：实际 3MF / STEP 均返回 256x256 位图。
 - 身份与后台提供的 Name/Publisher/PublisherDisplayName 匹配。
-- 本地未侧载安装，不修改证书信任。尚未完成 Store 认证或干净虚拟机端到端安装测试。
+- 已在 Windows Sandbox 中临时签名、安装并验证10种格式的30项实际Shell缩略图请求，以及中英文启动与卸载。证书仅在隔离沙盒内信任，不修改宿主机证书信任。正式认证仍由微软决定。
 
 ## 商店版差异
 缩略图由 MSIX 清单注册，卸载由 Windows 管理；界面不写传统文件关联注册表。
@@ -29,4 +29,4 @@ Python/CAD 环境随包附带。现有传统版缩略图处理器可能优先，
 需要 .NET 8 SDK、Python 3.12（Pillow）、Zig 0.13、Windows SDK MakeAppx，准备好 portable runtime 后运行 Build-Store.ps1。
 LLVM libc++ / libc++abi / libunwind 使用 Apache-2.0 with LLVM exceptions；发布时保留相关版权许可，当前包包含于 ThirdParty。
 ## 本地开发变更（尚未提交）
-大 STL 支持的源码修改与验证见 [大模型记录](../docs/LARGE-MODELS.md)。已提交认证的 `0.2.0.0` MSIX 尚未替换。
+大 STL 支持的源码修改与验证见 [大模型记录](../docs/LARGE-MODELS.md)。此次0.2.1.0同时包含大STL/3MF和保守自动摆正；语言修复详情见 docs/STORE-SUBMISSION.md。
